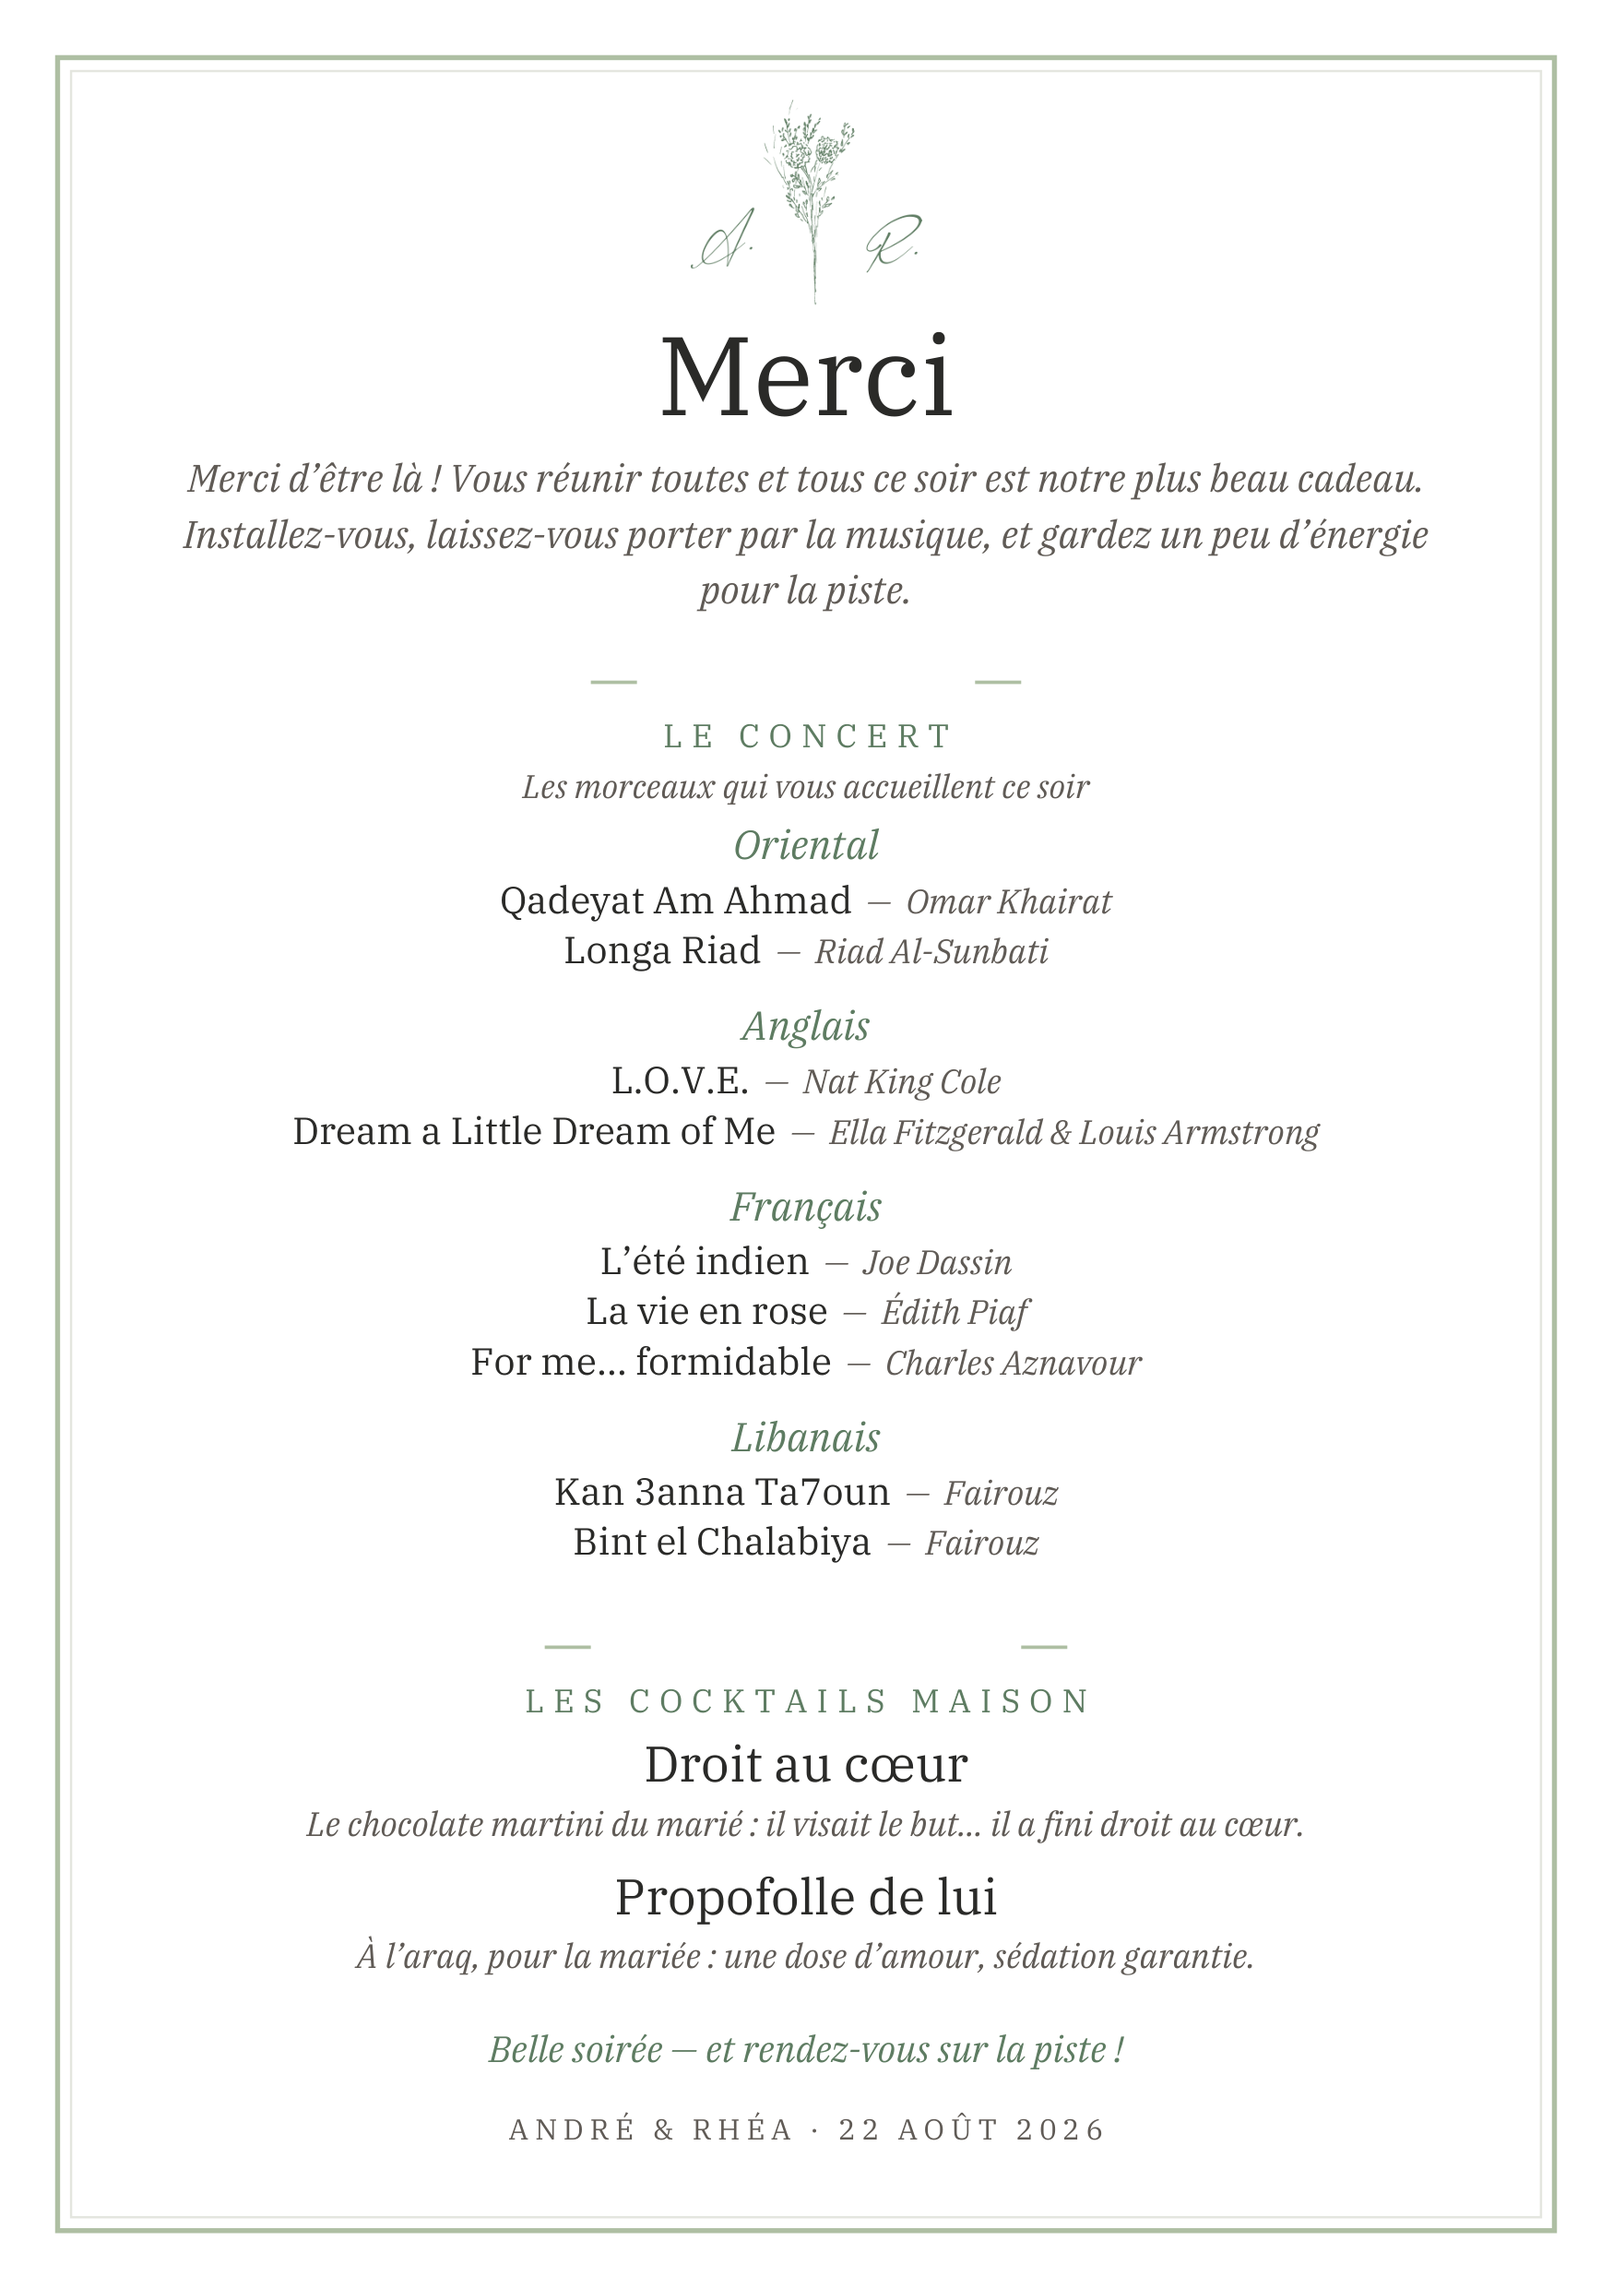
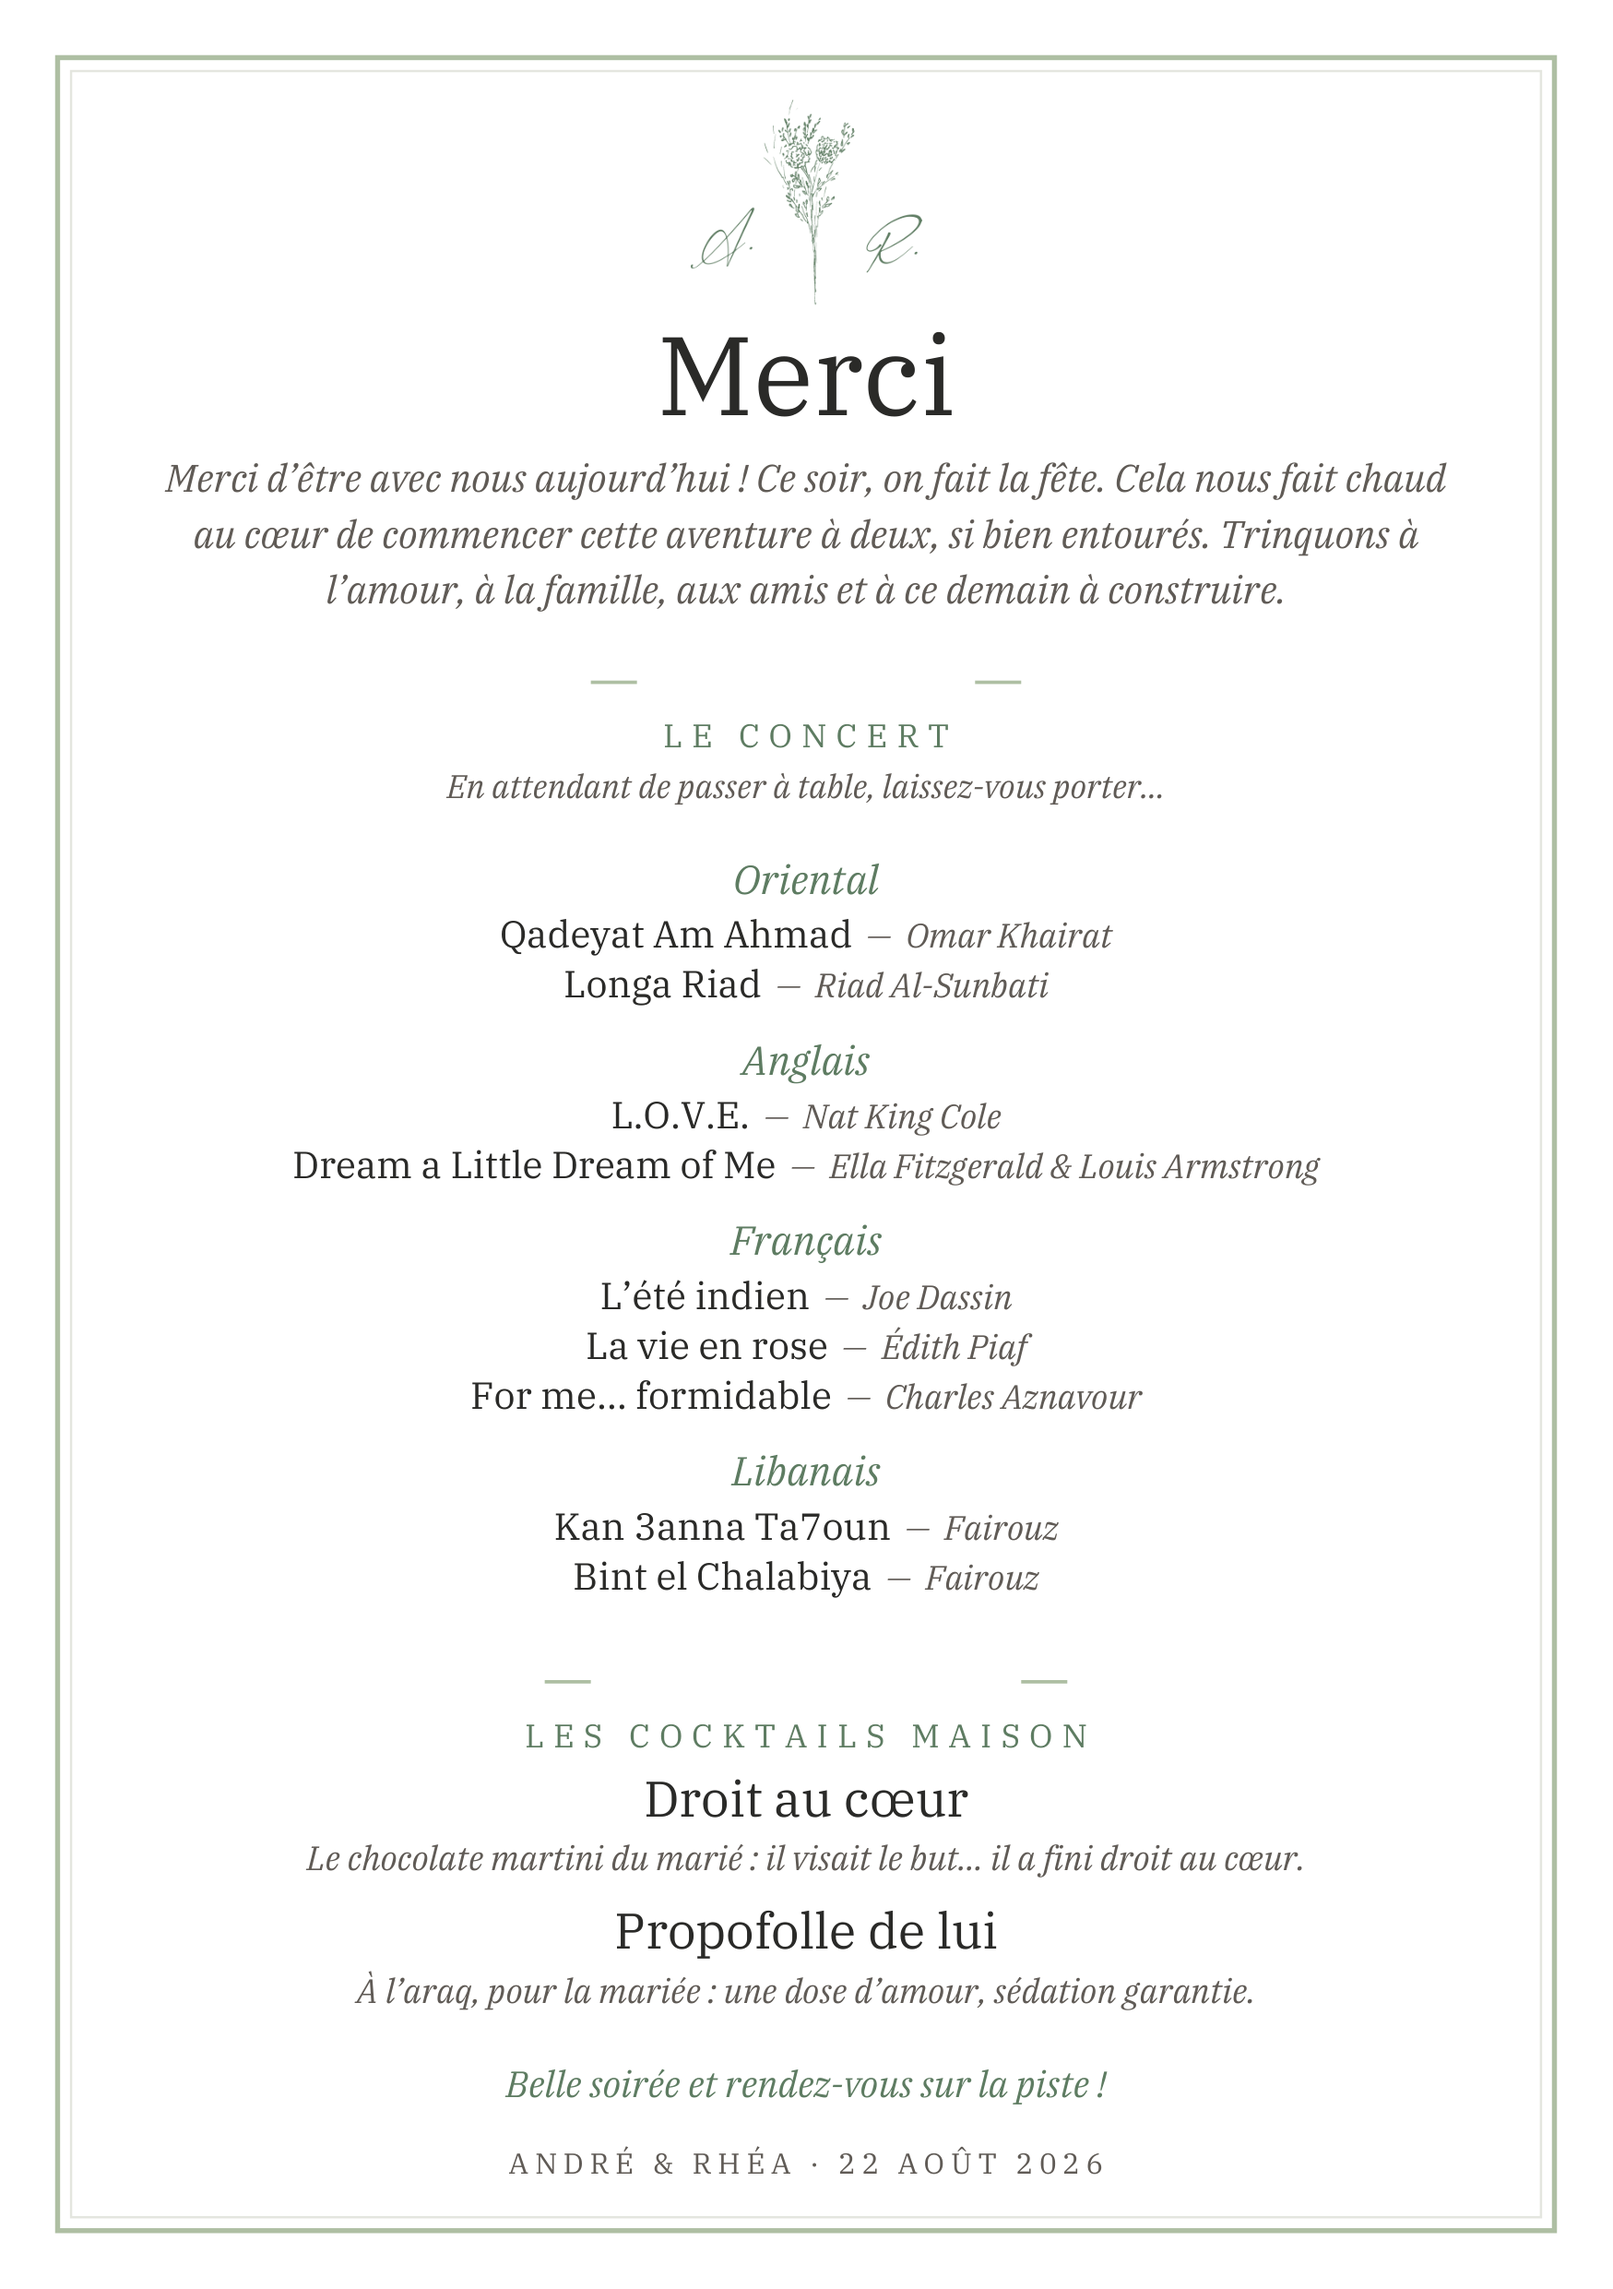
Thank-you card: new opening message, v1 concert line + air, closing without dash (#54)
Claude-Session: https://claude.ai/code/session_01Wi2TL2Ecb6DLgMXuheYsrH

diff --git a/assets/print/generate_thankyou.py b/assets/print/generate_thankyou.py
@@ -32,10 +32,11 @@ MUTED = colors.Color(97/255,92/255,86/255)
 LINE2 = colors.Color(228/255,231/255,224/255)
 W, H = 148*mm, 210*mm
 
-THANK = ("Merci d’être là ! Vous réunir toutes et tous ce soir est notre plus beau cadeau. "
-         "Installez-vous, laissez-vous porter par la musique, et gardez un peu d’énergie pour la piste.")
+THANK = ("Merci d’être avec nous aujourd’hui ! Ce soir, on fait la fête. Cela nous fait chaud "
+         "au cœur de commencer cette aventure à deux, si bien entourés. Trinquons à l’amour, "
+         "à la famille, aux amis et à ce demain à construire.")
 
-CONCERT_INTRO = "Les morceaux qui vous accueillent ce soir"
+CONCERT_INTRO = "En attendant de passer à table, laissez-vous porter…"
 CONCERT = [
     ("Oriental", [("Qadeyat Am Ahmad", "Omar Khairat"),
                   ("Longa Riad", "Riad Al-Sunbati")]),
@@ -123,7 +124,7 @@ def build():
     # ---- concert (single column, order O/A/F/L, title — author on one line) ----
     y += 6; rule(y, 40); y += 17
     spaced("LE CONCERT", y, "Plex", 8.5, 2.4, SAGE); y += 13
-    y = block(CONCERT_INTRO, y, "PlexIt", 8.5, MUTED, 12, W-70) + 4
+    y = block(CONCERT_INTRO, y, "PlexIt", 8.5, MUTED, 12, W-70) + 13
     for lang, songs in CONCERT:
         c.setFillColor(SAGE); c.setFont("PlexIt", 10.5); c.drawCentredString(cx, Y(y), lang); y += 14
         for title, author in songs:
@@ -138,7 +139,7 @@ def build():
         y = block(desc, y, "PlexIt", 8.8, MUTED, 11.5, W-72) + 9
 
     # closing
-    y += 4; block("Belle soirée — et rendez-vous sur la piste !", y, "PlexIt", 9.5, SAGE, 12, W-70); y += 20
+    y += 4; block("Belle soirée et rendez-vous sur la piste !", y, "PlexIt", 9.5, SAGE, 12, W-70); y += 20
     spaced("ANDRÉ & RHÉA · 22 AOÛT 2026", y, "Plex", 7.5, 1.6, MUTED)
 
     c.showPage(); c.save()
